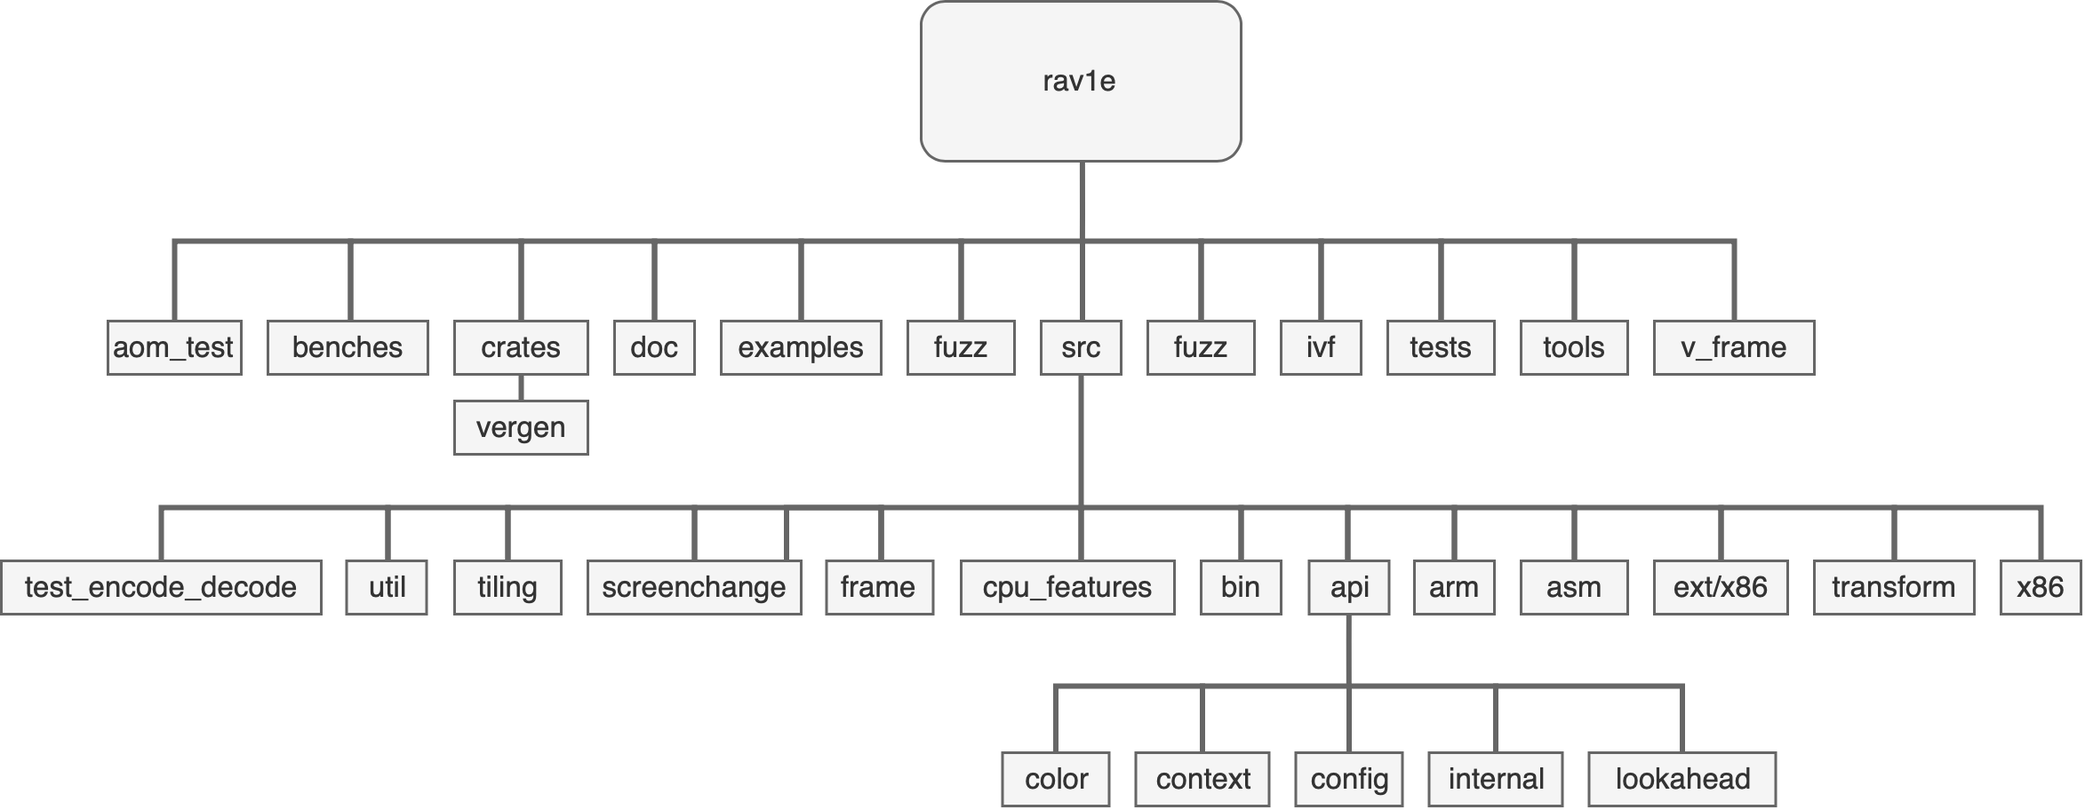
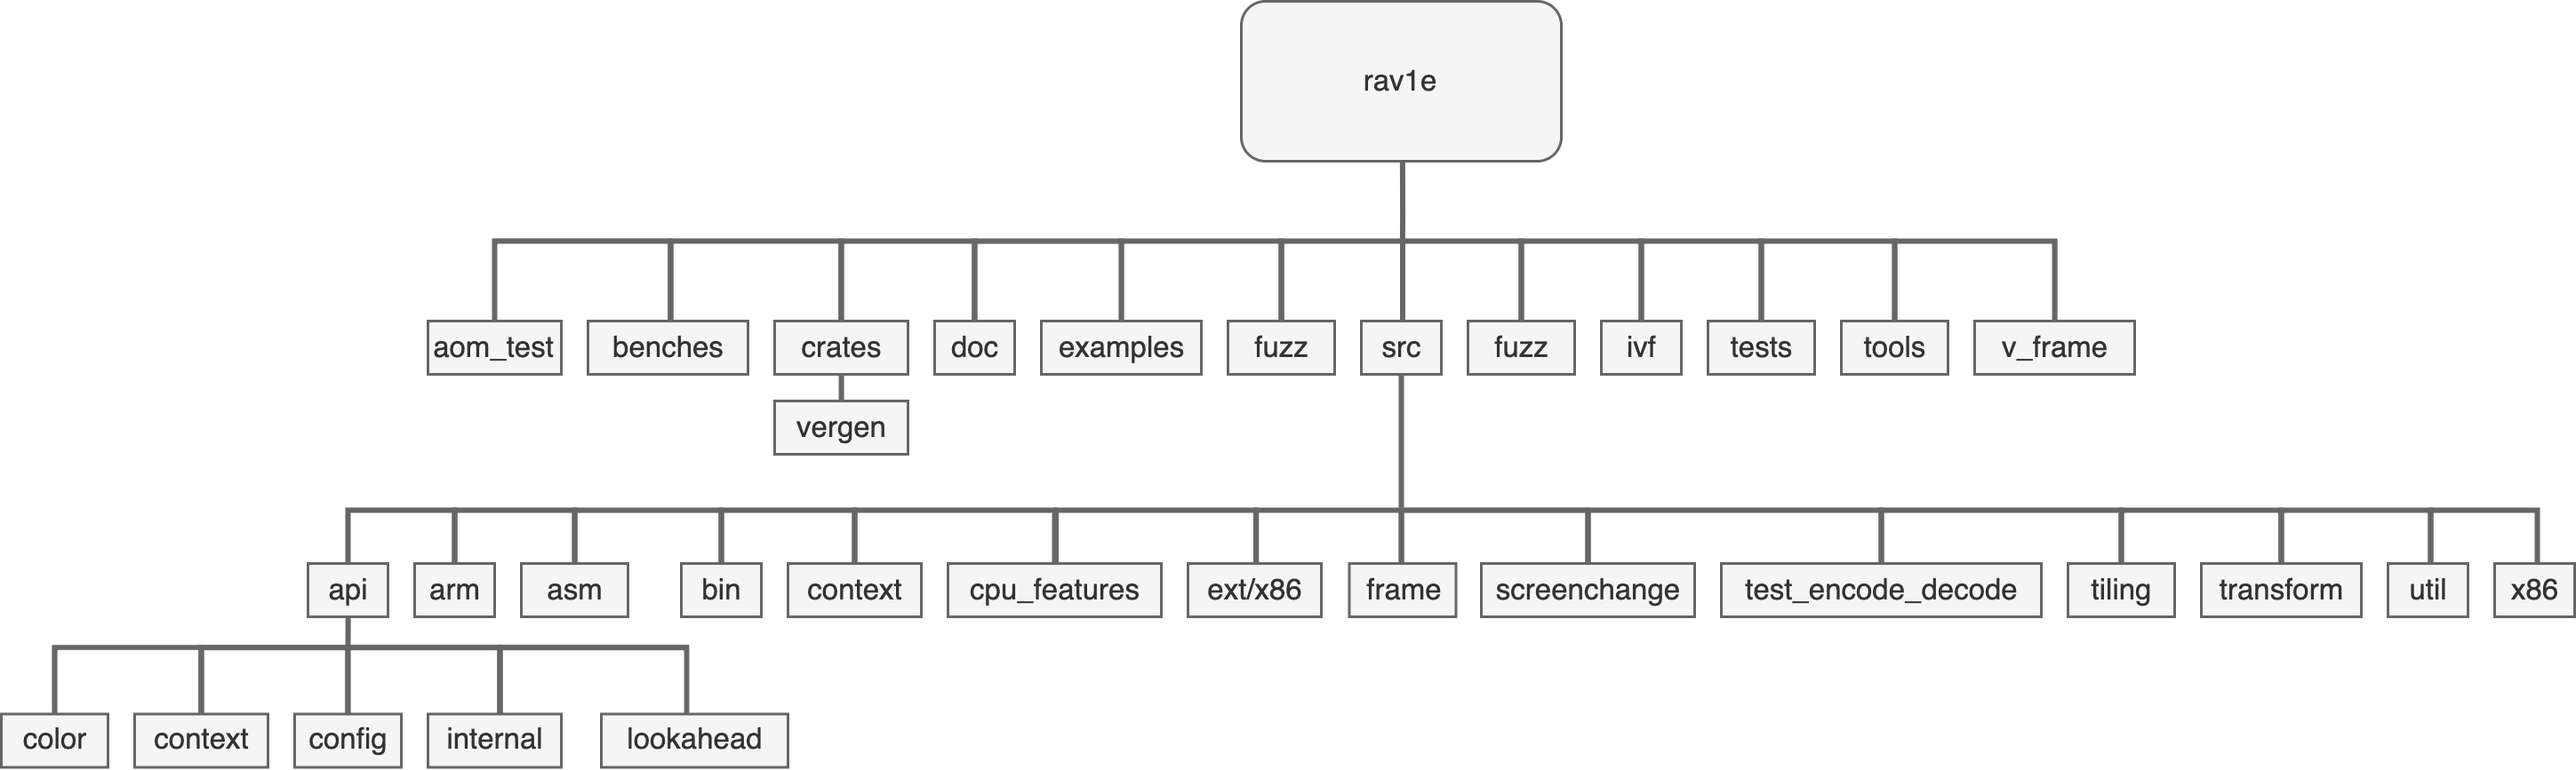
Update structure documentation
After the splitting of context(#2303), the file structure is
changed.

diff --git a/doc/STRUCTURE.md b/doc/STRUCTURE.md
@@ -6,6 +6,7 @@
 
 ![Image](structure.png)
 
+Source: [draw.io](structure.draw.io)
 
 ##  Overview of `src/*`
 
@@ -21,15 +22,15 @@ The below table gives a brief overview of design of [`src/*`](../src/)
 | [arm/table.S](../src/arm/table.S)                     | Tables for various ARM optimised functions                                                                 |
 | [asm/\*/*.rs](../src/asm/)                            | High-level functions for binding rust and assembly functions for x86 and AArch64 Architecture              |
 | [bin/common.rs](../src/bin/common.rs)                 | Functions, enums, structures used command-line tool and debugging                                          |
-| [bin/rav1e.rs](../src/bin/rav1e.rs)                    | CLI Interface for encoding from y4m files with rav1e                                           |
+| [bin/rav1e.rs](../src/bin/rav1e.rs)                    | CLI Interface for encoding from y4m files with rav1e                                                      |
 | [bin/stats.rs](../src/bin/stats.rs)                   | Functions for displaying Frame summary, progress info, metrics of the encoding process                     |
 | [bin/kv.rs](../src/bin/kv.rs)                         | Serialisation configuration of Key-value strings                                                           |
 | [bin/errror.rs](../src/bin/error.rs)                  | Functions and enums to parse various errors and displaying                                                 |
 | [bin/muxer/*.rs](../src/bin/muxer/)                   | Contains IVF Muxer functions for header definition, writing frames and flushing                            |
 | [bin/decoder/*.rs](../src/bin/decoder/)               | Decoder related structures and functions                                                                   |
-| [capi.rs](../src/capi.rs)                             | C Compatible API for using rav1e as a library                                                          |
+| [capi.rs](../src/capi.rs)                             | C Compatible API for using rav1e as a library                                                              |
 | [cdef.rs](../src/cdef.rs)                             | CDEF Filter implementation for the encoder                                                                 |
-| [context.rs](../src/context.rs)                       | High-level functions that write symbols to the bitstream, and maintain context                             |
+| [context/*.rs](../src/context/)                       | High-level functions that write symbols to the bitstream, and maintain context                             |
 | [cpu_features/*.rs](../src/cpu_features.rs)           | Functions to toggle CPU optimisations for different architectures                                          |
 | [deblock.rs](../src/deblock.rs)                       | Deblocking loop filter implementation for addressing blocking artifacts                                    |
 | [dist.rs](../src/dist.rs)                             | SAD and SATD functions and implementation for various encoder functions                                    |
@@ -45,7 +46,7 @@ The below table gives a brief overview of design of [`src/*`](../src/)
 | [mc.rs](../src/mc.rs)                                 | Low-level implementation of Motion Compensation of the encoding process                                    |
 | [me.rs](../src/me.rs)                                 | Motion Estimation related structures and functions of the encoding process                                 |
 | [partition.rs](../src/partition.rs)                   | Functions and enums to manage partitions (subdivisions of a superblock)                                    |
-| [predict.rs](../src/predict.rs)                       | Intra and inter prediction implementations                                                                           |
+| [predict.rs](../src/predict.rs)                       | Intra and inter prediction implementations                                                                 |
 | [quantize.rs](../src/quantize.rs)                     | Quantization and dequantization functions for coefficients                                                 |
 | [rate.rs](../src/rate.rs)                             | Low-level implementation of rate control API (Constant Quantizer)                                          |
 | [rdo.rs](../src/rdo.rs)                               | RDO-related structures and distortion computation functions                                                |
